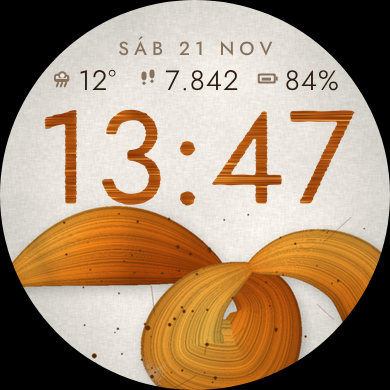
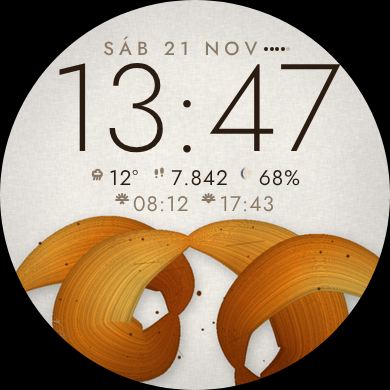
Esferas: Cinta minimalista con cinta de grandes rizos
- Cinta plana que fluye en rizos amplios, con pliegues, brillos y cerdas, sobre lino claro
- Composición minimalista: hora en Jost fina, fecha diminuta con batería en puntos,
  dos líneas finas de datos (tiempo, pasos, luna en su fase; amanecer y atardecer)
- Se retiran las cintas antiguas

Claude-Session: https://claude.ai/code/session_0148qsZtKrfrxGzekTrvD4BA

diff --git a/Esferas/store/generador/render.html b/Esferas/store/generador/render.html
@@ -21,7 +21,7 @@ const P = v => Math.round(v * k);
 const IMG = {};
 const GLYPH_STYLES = ['cv', 'ca', 'bl', 're', 'co', 'ba'];
 window.loadArt = () => Promise.all([
-  ...['bg_cinta_verde','bg_cinta_ambar','bg_bloques','bg_reticula','bg_collage','bg_collage2','bg_collage3','bg_geometria','grid','sun',
+  ...['bg_cinta3d_verde','bg_cinta3d_ambar','bg_bloques','bg_reticula','bg_collage','bg_collage2','bg_collage3','bg_geometria','grid','sun',
       'bg_cielo_noche','bg_cielo_alba','bg_cielo_dia','bg_cielo_dorada','bg_cielo_ocaso',
       ...[...Array(8).keys()].map(i => 'moon' + i)].map(n => [n, '../../resources/paint/' + n + '.png']),
   ...GLYPH_STYLES.flatMap(g => [...Array(11).keys()].map(i => ['g' + g + i, '../../resources/glyphs/g' + g + i + '.png']))
@@ -48,7 +48,7 @@ function text(x, y, t, f, col, align = 'c'){
 function rect(x, y, w, h, col){ dc.fillStyle = col; dc.fillRect(x, y, w, h); }
 function rrect(x, y, w, h, r, col){ dc.fillStyle = col; dc.beginPath(); dc.roundRect(x, y, w, h, r); dc.fill(); }
 function poly(pts, col){ dc.fillStyle = col; dc.beginPath(); dc.moveTo(...pts[0]); for (const p of pts.slice(1)) dc.lineTo(...p); dc.closePath(); dc.fill(); }
-function circle(x, y, r, col){ dc.fillStyle = col; dc.beginPath(); dc.arc(x, y, r, 0, 7); dc.fill(); }
+function circle(x, y, r, col){ if (r <= 0) return; dc.fillStyle = col; dc.beginPath(); dc.arc(x, y, r, 0, 7); dc.fill(); }
 function ring(x, y, r, col){ dc.strokeStyle = col; dc.lineWidth = Math.max(1, P(2)); dc.beginPath(); dc.arc(x, y, r, 0, 7); dc.stroke(); }
 function line(x1, y1, x2, y2, col, lw = 2){ dc.strokeStyle = col; dc.lineWidth = Math.max(1, P(lw)); dc.lineCap = 'round'; dc.beginPath(); dc.moveTo(x1, y1); dc.lineTo(x2, y2); dc.stroke(); }
 function art(n){ dc.drawImage(IMG['bg_' + n], 0, 0, S*k, S*k); }
@@ -70,6 +70,7 @@ function icon(kind, x, y, s, col, bg){
   if (kind === 'steps'){ dc.fillStyle = col;
     dc.beginPath(); dc.ellipse(x + s*0.30, y + s*0.40, s*0.13, s*0.22, 0, 0, 7); dc.fill(); circle(x + s*0.30, y + s*0.76, s*0.08, col);
     dc.beginPath(); dc.ellipse(x + s*0.70, y + s*0.30, s*0.13, s*0.22, 0, 0, 7); dc.fill(); circle(x + s*0.70, y + s*0.66, s*0.08, col); return; }
+  if (kind === 'moon'){ const mp = IMG['moon' + window.__moon]; dc.drawImage(mp, x, y + (s - s) , s, s); return; }
   if (kind === 'battery'){ // cuerpo + polo + nivel
     const bw = s, bh = s * 0.5, by = y + s * 0.28;
     rrect(x, by, bw * 0.9, bh, s*0.08, col); rrect(x + P(2), by + P(2), bw * 0.9 - P(4), bh - P(4), s*0.05, bg);
@@ -104,11 +105,15 @@ function sunItem(d){ return d.nextSun === 'sunrise' ? ['sunrise', d.sunrise] : [
 
 // =================== CINTA ===================
 function cinta(d, verde){
-  art(verde ? 'cinta_verde' : 'cinta_ambar');
-  const ink = verde ? '#1E2620' : '#2A1C11', soft = verde ? '#5E665E' : '#86735F', bg = verde ? '#D4CFC3' : '#EEEAE3';
-  text(P(195), P(42), d.date, F.label, soft);
-  row(P(195), P(70), [[d.cond, d.temp + '°'], ['steps', fmtSteps(d.steps)], ['battery', d.battery + '%']], ink, soft, bg, 20);
-  glyphTime(P(195), P(110), d.time, verde ? 'cv' : 'ca', 2);
+  art(verde ? 'cinta3d_verde' : 'cinta3d_ambar');
+  // Minimalista: la cinta manda; los datos, finos y con aire.
+  const ink = verde ? '#18211B' : '#2A1C11', soft = verde ? '#6A716A' : '#8A7A68', bg = verde ? '#D8D4C9' : '#EDEAE4';
+  text(P(180), P(42), d.date, F.label, soft);
+  const n = Math.round(d.battery / 20);
+  for (let i = 0; i < 5; i++) circle(P(266 + i * 5.5), P(49), Math.max(1.2, P(1.6)), i < n ? ink : '#BDB6A8');
+  text(P(195), P(64), d.time, F.time, ink);
+  row(P(195), P(170), [[d.cond, d.temp + '°'], ['steps', fmtSteps(d.steps)], ['moon', Math.round(d.moonIllum * 100) + '%']], ink, soft, bg, 14, F.small);
+  row(P(195), P(196), [['sunrise', d.sunrise], ['sunset', d.sunset]], soft, soft, bg, 12, F.small);
 }
 
 // =================== BLOQUES ===================
@@ -251,7 +256,7 @@ function aod(d){
 
 window.render = (theme, d, size = 390) => {
   const cv = document.getElementById('c'); cv.width = cv.height = size; k = size / S;
-  dc = cv.getContext('2d'); window.__batt = d.battery / 100;
+  dc = cv.getContext('2d'); window.__batt = d.battery / 100; window.__moon = d.moonIdx;
   ({ cinta_verde: d => cinta(d, true), cinta_ambar: d => cinta(d, false), bloques, reticula, collage, aod, cielo,
      cielo_noche: d => cielo({...d, state: 'noche'}), cielo_alba: d => cielo({...d, state: 'alba'}),
      cielo_dia: d => cielo({...d, state: 'dia'}), cielo_dorada: d => cielo({...d, state: 'dorada'}),

diff --git a/Esferas/store/generador/shoot.js b/Esferas/store/generador/shoot.js
@@ -7,7 +7,7 @@ const d = { time: '13:47', date: 'SÁB 21 NOV', temp: 12, cond: 'rain', sunrise:
   nowH: 13 + 47/60, riseH: 8.2, setH: 17.72, sunNow: 26.5, peak: 29.4 };
 const scenes = { collage2: { variant: 1, time: '20:58' }, collage3: { variant: 2, time: '07:31' }, cielo_alba: { time: '08:41', nowH: 8.68, sunNow: 4 }, cielo_dorada: { time: '17:05', nowH: 17.08, sunNow: 5 },
   cielo_ocaso: { time: '18:02', nowH: 18.03, sunNow: -4 }, cielo_noche: { time: '23:16', nowH: 23.27, sunNow: -50 } };
-const themes = ['geometria', 'collage2', 'collage3', 'cielo', 'cielo_alba', 'cielo_dorada', 'cielo_ocaso', 'cielo_noche', 'cinta_verde', 'cinta_ambar', 'bloques', 'reticula', 'collage', 'aod'];
+const themes = ['cinta_verde', 'cinta_ambar', 'geometria', 'collage2', 'collage3', 'cielo', 'cielo_alba', 'cielo_dorada', 'cielo_ocaso', 'cielo_noche', 'cinta_verde', 'cinta_ambar', 'bloques', 'reticula', 'collage', 'aod'];
 (async () => {
   const b = await chromium.launch();
   const p = await b.newPage({ viewport: { width: 454, height: 454 }, deviceScaleFactor: 1 });

diff --git a/Esferas/tools/paint.py b/Esferas/tools/paint.py
@@ -624,15 +624,122 @@ def bg_geometria(seed=31):
     img = over(img, gouache("#1C1A17", 923), rect_mask(x0, y0, x1, y1, 924, rough=1.0, soft=0.6))
     return to_image(vignette(img, 0.08))
 
+
+# ------------------------------------------------------------------ CINTA 3D (minimalista)
+def spline3(pts, steps=40):
+    pts = np.asarray(pts, np.float64)
+    n = len(pts)
+    out = []
+    for i in range(n - 1):
+        p0, p1, p2, p3 = pts[max(0, i - 1)], pts[i], pts[i + 1], pts[min(n - 1, i + 2)]
+        for s in range(steps):
+            t = s / steps
+            t2, t3 = t * t, t * t * t
+            out.append(0.5 * (2 * p1 + (p2 - p0) * t + (2 * p0 - 5 * p1 + 4 * p2 - p3) * t2 + (3 * p1 - p0 - 3 * p2 + p3) * t3))
+    out.append(pts[-1])
+    return np.array(out)
+
+
+def ribbon3d(img, ctrl, colors, seed, width=38.0, twist=(0.3, 8.5), light=(-0.55, -0.70, 0.45)):
+    """Cinta de pincel modelada en 3D: curva en el espacio con marco que gira (twist),
+    luz direccional por las dos caras (la interior más oscura), orden de profundidad real
+    y cerdas finas a lo largo del recorrido. Se proyecta en ortográfica sobre el lienzo."""
+    rng = np.random.default_rng(seed)
+    C = spline3(ctrl, 60)
+    seg = np.linalg.norm(np.diff(C, axis=0), axis=1)
+    sl = np.concatenate([[0], np.cumsum(seg)])
+    step = 0.40 / K
+    sn = np.arange(0, sl[-1], step)
+    C = np.stack([np.interp(sn, sl, C[:, j]) for j in range(3)], 1)
+    t = sn / sl[-1]
+    T = np.gradient(C, axis=0)
+    T /= np.linalg.norm(T, axis=1, keepdims=True) + 1e-9
+    # transporte paralelo del marco
+    N = np.zeros_like(T)
+    ref = np.array([0.0, 0.0, 1.0])
+    n0 = np.cross(T[0], ref)
+    N[0] = n0 / (np.linalg.norm(n0) + 1e-9)
+    for i in range(1, len(T)):
+        v = N[i - 1] - np.dot(N[i - 1], T[i]) * T[i]
+        N[i] = v / (np.linalg.norm(v) + 1e-9)
+    Bn = np.cross(T, N)
+    phi = twist[0] + (twist[1] - twist[0]) * t + 0.9 * np.sin(2 * np.pi * 1.1 * t)
+    B = np.cos(phi)[:, None] * N + np.sin(phi)[:, None] * Bn         # dirección a lo ancho
+    nrm = np.cross(T, B)                                              # normal de la superficie
+    taper = np.clip(np.sin(np.pi * np.clip(t, 0, 1)) ** 0.45, 0.05, 1)
+    w = width * taper * (0.18 + 0.82 * np.abs(np.cos(phi * 0.5)) ** 0.7)      # pliegues de canto
+    nk = 380
+    k = np.linspace(-1, 1, nk)
+    P = C[:, None, :] + (w[:, None] * k[None, :])[..., None] * B[:, None, :]
+    L = np.array(light, np.float64)
+    L /= np.linalg.norm(L)
+    ndl = (nrm @ L)[:, None] * np.ones((1, nk))
+    front = (nrm[:, 2] > 0)[:, None] * np.ones((1, nk), bool)
+    # abombado leve a lo ancho y oscurecimiento en los bordes del pincel
+    cup = 1 - 0.25 * k[None, :] ** 2
+    H = L + np.array([0, 0, 1.0])
+    H /= np.linalg.norm(H)
+    spec = (np.clip(np.abs(nrm @ H), 0, 1) ** 24)[:, None] * np.ones((1, nk))
+    # sombreado pictórico: degradado que gira a lo ancho con cada pliegue; cara interior en sombra
+    curl = 0.5 + 0.5 * np.sin(phi[:, None] * 0.5 + 1.7 * k[None, :])
+    face = (np.cos(phi * 0.5) >= 0)[:, None]
+    shade = np.where(face, 0.12 + 0.95 * curl, 0.05 + 0.38 * curl) * cup
+    shade = shade + 0.30 * np.clip((curl - 0.82) / 0.18, 0, 1) * face                   # brillo en la cresta
+    shade = shade + 0.04 * np.maximum(ndl, 0)
+    bristle = 0.80 + 0.36 * rng.random(nk)
+    bristle[rng.random(nk) > 0.80] *= 0.50
+    bristle = np.convolve(bristle, [0.15, 0.7, 0.15], mode="same")
+    dark, mid, light_c = (hexrgb(c) for c in colors)
+    sh = np.clip(shade, 0, 1.15)[..., None]
+    col = np.where(sh < 0.5, dark + (mid - dark) * (sh * 2), mid + (light_c - mid) * np.clip(sh * 2 - 1, 0, 1.3))
+    col = col * bristle[None, :, None]
+    # colas de pincel seco
+    tail = np.clip(np.minimum(t / 0.06, (1 - t) / 0.08), 0, 1)
+    keep = rng.random((len(t), nk)) < (tail[:, None] ** 0.6 + 0.02)
+    X, Y, Z = P[..., 0], P[..., 1], P[..., 2]
+    ix = (X * K).astype(np.int32)
+    iy = (Y * K).astype(np.int32)
+    ok = keep & (ix >= 0) & (ix < N_) & (iy >= 0) & (iy < N_)
+    order = np.argsort(Z[ok], kind="stable")                          # de atrás hacia delante
+    ixs, iys, cols = ix[ok][order], iy[ok][order], col[ok][order]
+    buf = np.zeros((N_, N_, 3), np.float32)
+    alpha = np.zeros((N_, N_), np.float32)
+    buf[iys, ixs] = np.clip(cols, 0, 1)
+    alpha[iys, ixs] = 1
+    rgba = Image.fromarray((np.dstack([buf, alpha]) * 255).astype(np.uint8), "RGBA")
+    arr = np.asarray(rgba.filter(ImageFilter.GaussianBlur(0.32 * K)), np.float32) / 255.0
+    shd = np.asarray(rgba.split()[3].filter(ImageFilter.GaussianBlur(7 * K)), np.float32) / 255.0
+    dy, dx = int(5 * K), int(3 * K)
+    shd = np.pad(shd, ((dy, 0), (dx, 0)))[:N_, :N_]
+    img = img * (1 - 0.18 * shd)[..., None]
+    a = np.clip(arr[..., 3] * 1.12, 0, 1)
+    rgb = arr[..., :3] / np.maximum(arr[..., 3:4], 1e-3)
+    return over(img, np.clip(rgb, 0, 1), a)
+
+
+N_ = N
+
+
+def bg_cinta3d(ground, colors, ink, seed, ctrl):
+    img = mottle(linen(solid(ground), 0.07, seed), 0.04, seed + 1, 3)
+    img = ribbon(img, [(x, y + 26) for x, y, _ in ctrl], colors, seed + 2, width=40.0, twists=2.3)
+    img = splatter(img, ink, seed + 3, (40, 222, 360, 384), count=34)
+    return to_image(vignette(img, 0.08))
+
+
+CINTA3D_PATH = [(-40, 330, 0), (30, 250, 60), (110, 222, -40), (176, 258, -90), (150, 326, -20), (92, 300, 70),
+                (126, 238, 90), (214, 214, 20), (290, 250, -80), (312, 330, -30), (256, 366, 60), (236, 298, 90),
+                (300, 240, 20), (370, 252, -60), (440, 320, 0)]
+
 ART = {
-    "cinta_verde": lambda: bg_cinta("#D4CFC3", ("#0F2A1E", "#2C5A40", "#7FA88A"), "#16211B", 70),
-    "cinta_ambar": lambda: bg_cinta("#EEEAE3", ("#9C3A06", "#E7801A", "#FFD15A"), "#5A2A08", 80),
     "bloques": bg_bloques,
     "reticula": bg_reticula,
     "collage": lambda: bg_collage(91),
     "collage2": lambda: bg_collage(191),
     "collage3": lambda: bg_collage(291),
     "geometria": bg_geometria,
+    "cinta3d_verde": lambda: bg_cinta3d("#D8D4C9", ("#0B2419", "#28533C", "#86AE92"), "#14201A", 77, CINTA3D_PATH),
+    "cinta3d_ambar": lambda: bg_cinta3d("#EDEAE4", ("#8A3204", "#E07A12", "#FFD45E"), "#5A2A08", 87, CINTA3D_PATH),
     "cielo_noche": lambda: bg_cielo("noche"),
     "cielo_alba": lambda: bg_cielo("alba"),
     "cielo_dia": lambda: bg_cielo("dia"),
